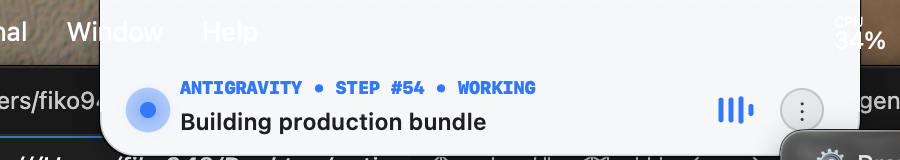
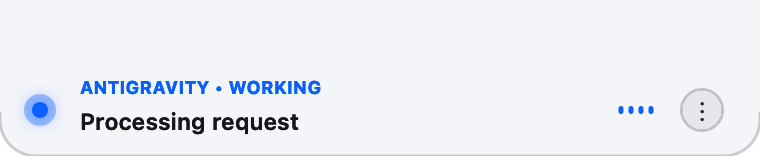
fix(theme): fix beacon dot layer rendering and matrix transform positioning across all themes

Changed region(s): [[0.0, 0.0, 1.0, 1.0]]

diff --git a/src/UI/NotchIslandContentView.swift b/src/UI/NotchIslandContentView.swift
@@ -58,6 +58,8 @@ public class NotchIslandContentView: NSView {
         wantsLayer = true
 
         // Background Layers: Matrix Rain & Glitch Overlays
+        matrixRain.zPosition = 1
+        glitchOverlay.zPosition = 2
         layer?.addSublayer(matrixRain)
         layer?.addSublayer(glitchOverlay)
 
@@ -68,16 +70,20 @@ public class NotchIslandContentView: NSView {
         }
 
         // Status Beacon
+        beaconPulseLayer.zPosition = 10
         beaconPulseLayer.cornerRadius = 8
         layer?.addSublayer(beaconPulseLayer)
 
+        beaconLayer.zPosition = 11
         beaconLayer.cornerRadius = 4
         beaconLayer.shadowRadius = 5
         beaconLayer.shadowOpacity = 1.0
         beaconLayer.shadowOffset = .zero
         layer?.addSublayer(beaconLayer)
 
-        // Labels
+        // Equalizer
+        equalizer.zPosition = 12
+        layer?.addSublayer(equalizer)
         headerLabel.font = NSFont.monospacedSystemFont(ofSize: 9.0, weight: .black)
         headerLabel.textColor = themeColor
         headerLabel.backgroundColor = .clear
@@ -313,8 +319,11 @@ public class NotchIslandContentView: NSView {
 
         if !isExpandedMode {
             // Idle Compact
-            beaconLayer.frame = CGRect(x: (w / 2) - 3.5, y: h - 6, width: 7, height: 7)
-            beaconPulseLayer.frame = CGRect(x: (w / 2) - 7.5, y: h - 10, width: 15, height: 15)
+            beaconLayer.bounds = CGRect(x: 0, y: 0, width: 7, height: 7)
+            beaconLayer.position = CGPoint(x: w / 2, y: h - 2.5)
+
+            beaconPulseLayer.bounds = CGRect(x: 0, y: 0, width: 15, height: 15)
+            beaconPulseLayer.position = CGPoint(x: w / 2, y: h - 2.5)
 
             headerLabel.isHidden = true
             detailLabel.isHidden = true
@@ -326,9 +335,12 @@ public class NotchIslandContentView: NSView {
             let activeMidY = notchH + (dropDownH / 2)
 
             // Left Beacon (Safe inside padding X = 20)
-            let beaconX: CGFloat = 20
-            beaconLayer.frame = CGRect(x: beaconX, y: activeMidY - 4, width: 8, height: 8)
-            beaconPulseLayer.frame = CGRect(x: beaconX - 4, y: activeMidY - 8, width: 16, height: 16)
+            let beaconCenterX: CGFloat = 20
+            beaconLayer.bounds = CGRect(x: 0, y: 0, width: 8, height: 8)
+            beaconLayer.position = CGPoint(x: beaconCenterX, y: activeMidY)
+
+            beaconPulseLayer.bounds = CGRect(x: 0, y: 0, width: 16, height: 16)
+            beaconPulseLayer.position = CGPoint(x: beaconCenterX, y: activeMidY)
 
             // Right Vertical 3-Dots Button (⋮) (Safe inside padding X = w - 40)
             moreButton.isHidden = false
@@ -362,6 +374,10 @@ public class NotchIslandContentView: NSView {
     private func configureBeaconAnimation(for theme: ThemeDefinition, color: NSColor) {
         beaconLayer.removeAllAnimations()
         beaconPulseLayer.removeAllAnimations()
+
+        beaconLayer.isHidden = false
+        beaconPulseLayer.isHidden = false
+        beaconLayer.opacity = 1.0
 
         switch theme.beaconStyle {
         case .venturaSiriPulse:
@@ -397,14 +413,14 @@ public class NotchIslandContentView: NSView {
             beaconPulseLayer.transform = CATransform3DMakeRotation(.pi / 4, 0, 0, 1)
 
             let strobe = CAKeyframeAnimation(keyPath: "opacity")
-            strobe.values = [1.0, 0.2, 0.9, 0.1, 1.0, 0.3, 0.8, 0.1, 1.0]
+            strobe.values = [0.9, 0.25, 1.0, 0.2, 0.9, 0.35, 1.0, 0.2, 0.9]
             strobe.keyTimes = [0.0, 0.15, 0.22, 0.35, 0.48, 0.62, 0.75, 0.88, 1.0]
             strobe.duration = 0.7
             strobe.repeatCount = .infinity
             beaconPulseLayer.add(strobe, forKey: "cyberStrobe")
 
             let scaleTwitch = CAKeyframeAnimation(keyPath: "transform.scale")
-            scaleTwitch.values = [1.0, 1.4, 0.95, 1.35, 1.0]
+            scaleTwitch.values = [1.0, 1.35, 0.95, 1.25, 1.0]
             scaleTwitch.keyTimes = [0.0, 0.25, 0.5, 0.75, 1.0]
             scaleTwitch.duration = 0.7
             scaleTwitch.repeatCount = .infinity

diff --git a/src/UI/NotchPreviewBoxView.swift b/src/UI/NotchPreviewBoxView.swift
@@ -266,7 +266,8 @@ public class NotchPreviewBoxView: NSView {
         // Positioning elements
         if isExpandedPreview {
             let activeMidY = notchHardwareH + ((targetH - notchHardwareH) / 2)
-            beaconLayer.frame = CGRect(x: startX + 14, y: activeMidY - 3.5, width: 7, height: 7)
+            beaconLayer.bounds = CGRect(x: 0, y: 0, width: 7, height: 7)
+            beaconLayer.position = CGPoint(x: startX + 17.5, y: activeMidY)
 
             let eqW: CGFloat = 20
             equalizerLayer.frame = CGRect(x: startX + targetW - eqW - 14, y: activeMidY - 8, width: eqW, height: 16)
@@ -276,7 +277,8 @@ public class NotchPreviewBoxView: NSView {
             headerTextLayer.frame = CGRect(x: labelX, y: notchHardwareH + 4, width: labelW, height: 12)
             detailTextLayer.frame = CGRect(x: labelX, y: notchHardwareH + 16, width: labelW, height: 14)
         } else {
-            beaconLayer.frame = CGRect(x: (boxW / 2) - 3, y: targetH - 5, width: 6, height: 6)
+            beaconLayer.bounds = CGRect(x: 0, y: 0, width: 6, height: 6)
+            beaconLayer.position = CGPoint(x: boxW / 2, y: targetH - 2.5)
         }
     }
 
